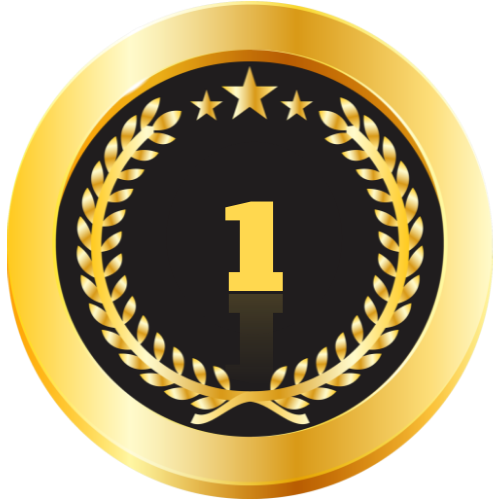
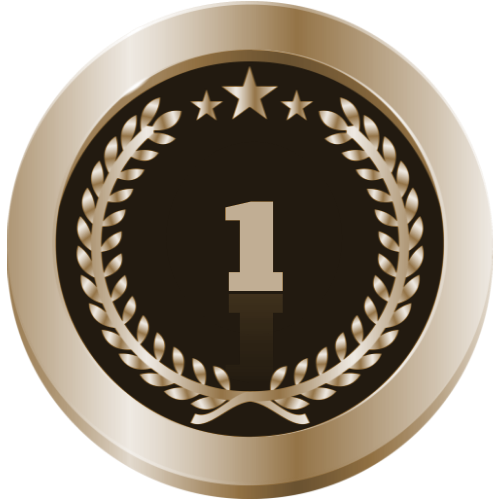
Added comments and new master images

diff --git a/src/lib/utils/awards.ts b/src/lib/utils/awards.ts
@@ -1,9 +1,9 @@
 import type { WCAGCriteria } from "@prisma/client";
 import { getPrincipleNum, type Principle } from "./stringTypes";
 
-export const maxWCAGMaster: number = 5
-export const maxPrincipleLevel: number = 100
+export const maxMasterLevel: number = 5
 
+// Adds solves to criteria
 export function addSolvesToCriteria(allCriteria: WCAGCriteria[], solvedCriteria: WCAGCriteria[]) {
     allCriteria.forEach((criterion: WCAGCriteria) => {
         let isSolved: boolean = false
@@ -21,19 +21,23 @@ export function addSolvesToCriteria(allCriteria: WCAGCriteria[], solvedCriteria:
     })
 }
 
+// Gets the users WCAG Master level
 export function getWCAGMasterLevel(criteria: WCAGCriteria[]): number {
-    return getMinimumSolves(criteria, maxWCAGMaster)
+    return getMinimumSolves(criteria, maxMasterLevel)
 }
 
+// Gets the next wcag Master level for a user (max = maxWCAGMaster)
 export function GetNextMasterLevel(masterLevel: number): number {
-    return masterLevel > maxWCAGMaster ? maxWCAGMaster : masterLevel + 1
+    return masterLevel > maxMasterLevel ? maxMasterLevel : masterLevel + 1
 }
 
+// Gets the masterlevel for a principle
 export function getPrincipleMasterLevel(criteria: WCAGCriteria[], principle: Principle): number {
     const principleCriteria: WCAGCriteria[] = getPrincipleCriteria(criteria, getPrincipleNum(principle))
-    return getMinimumSolves(principleCriteria, maxPrincipleLevel)
+    return getMinimumSolves(principleCriteria, maxMasterLevel)
 }
 
+// Gets all criteria for a principle 
 function getPrincipleCriteria(criteria: WCAGCriteria[], principleNumber: number): WCAGCriteria[] {
     let result: WCAGCriteria[] = []
     criteria.forEach((criterion) => {
@@ -43,6 +47,7 @@ function getPrincipleCriteria(criteria: WCAGCriteria[], principleNumber: number)
     return result
 }
 
+// Finds the minimum solves of a list of criteria
 function getMinimumSolves(criteria: WCAGCriteria[], maxLevel: number): number {
     let level = maxLevel
     criteria.forEach((criterion: WCAGCriteria) => {
@@ -52,16 +57,18 @@ function getMinimumSolves(criteria: WCAGCriteria[], maxLevel: number): number {
     return level
 }
 
-
+// Returns the progress for Master level
 export function getMasterProgress(masterLevel: number, criteria: WCAGCriteria[]): { progress: number, total: number } {
-    const progress: number = getTotalSolvesForMasterLevel(masterLevel, criteria)
-    const total: number = criteria.length * (masterLevel < maxWCAGMaster ? masterLevel + 1 : maxWCAGMaster)
+    let progress: number = getTotalSolvesForMasterLevel(masterLevel, criteria)
+    const total: number = criteria.length * (masterLevel < maxMasterLevel ? masterLevel + 1 : maxMasterLevel)
+    progress = progress > total ? total : progress
     return { progress, total }
 }
 
+// returns the progress of solves for a certain master level
 function getTotalSolvesForMasterLevel(masterLevel: number, criteria: WCAGCriteria[]): number {
     let solves: number = 0
-    let nextMasterLevel: number = masterLevel === maxWCAGMaster ? maxWCAGMaster : masterLevel + 1
+    let nextMasterLevel: number = masterLevel === maxMasterLevel ? maxMasterLevel : masterLevel + 1
     criteria.forEach((criterion) => {
         // @ts-ignore
         solves += criterion.solves > nextMasterLevel ? nextMasterLevel : criterion.solves

diff --git a/src/routes/profile/[id].ts b/src/routes/profile/[id].ts
@@ -16,13 +16,7 @@ export async function get({ params }) {
     user.userXP = userXP
     const solvedCriteria: WCAGCriteria[] = await getAllCriteriaSolved(id)
     let criteria: WCAGCriteria[] = await getAllCriteria()
-    console.log(criteria.length)
     addSolvesToCriteria(criteria, solvedCriteria)
-    console.log(getWCAGMasterLevel(criteria))
-    console.log(getMasterProgress(getWCAGMasterLevel(criteria), criteria))
-
-
-
 
     return {
         body: {
